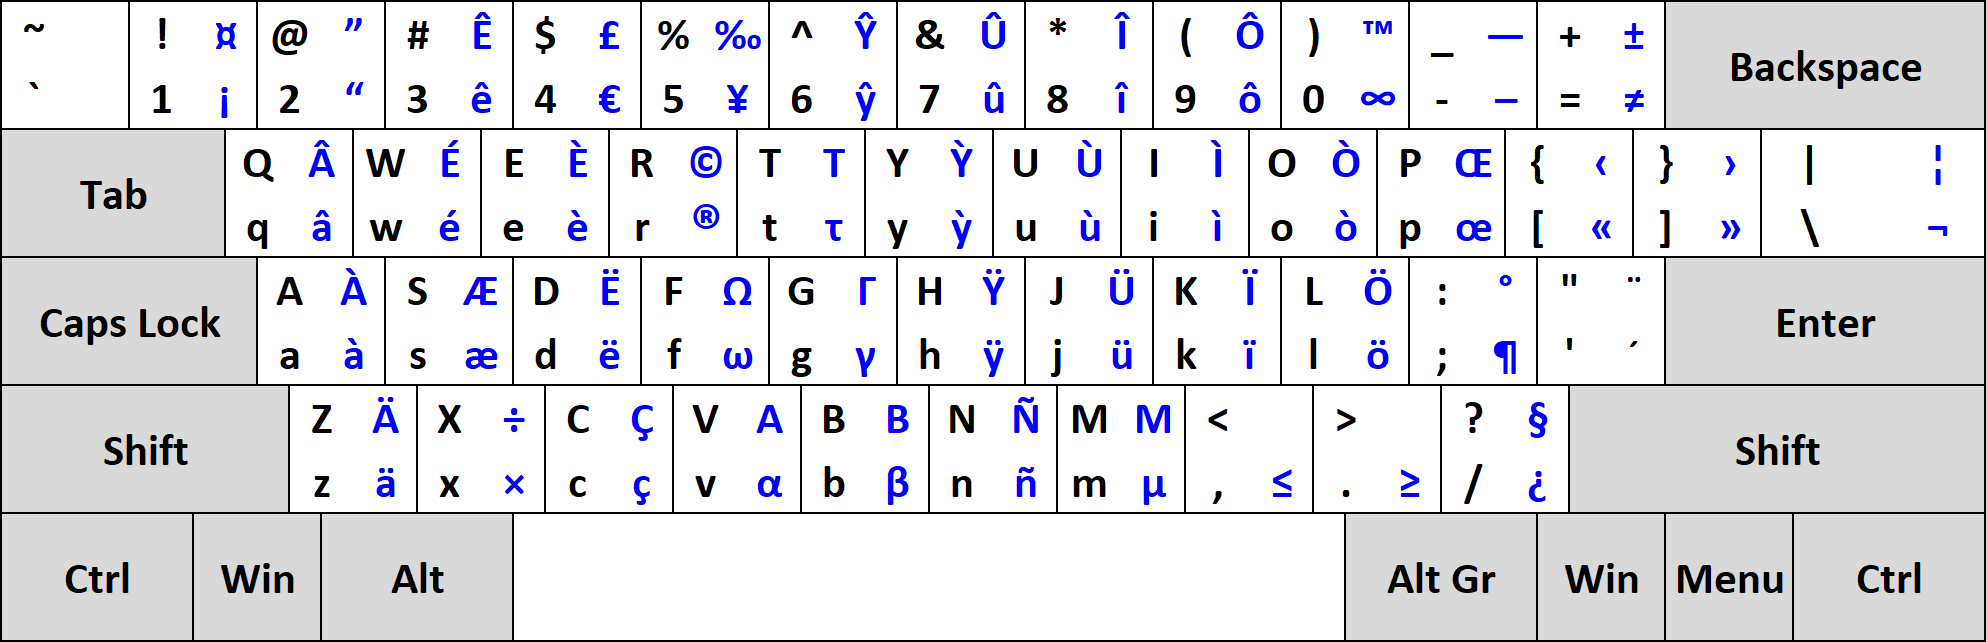
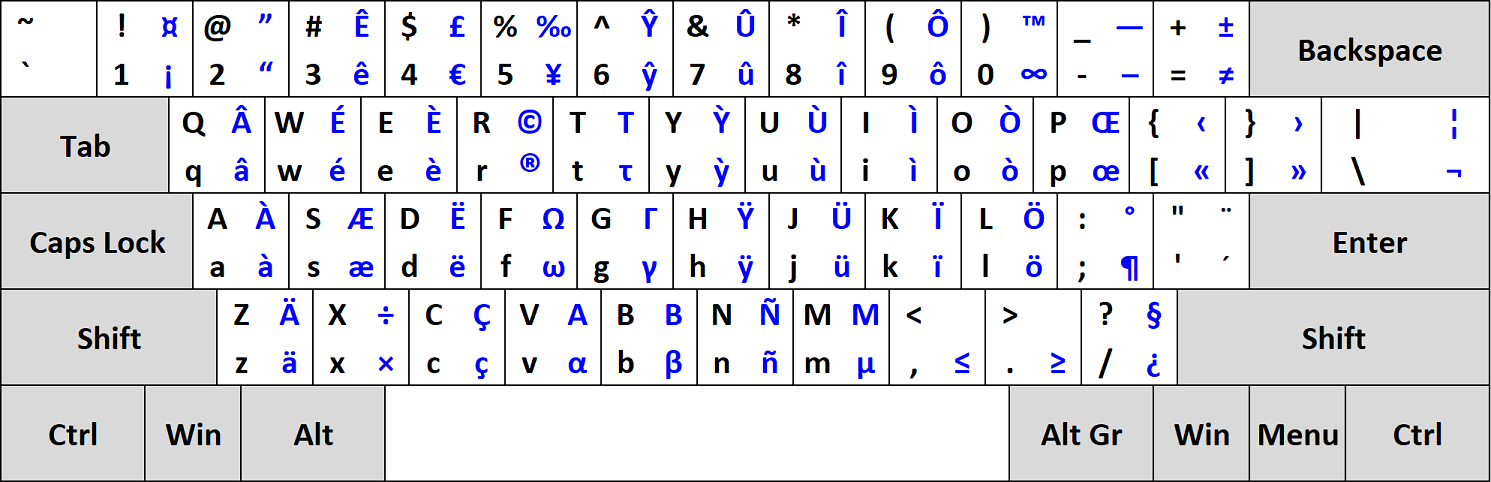
Update README.md

diff --git a/README.md b/README.md
@@ -10,18 +10,17 @@ Grave accent: AltGr + corresponding letter (works for all vowels).<br>
 Cedilla: AltGr + corresponding letter (works for the letter c -> ç).<br>
 Circumflex: AltGr + key above the corresponding letter (works for all vowels).<br>
 Diaeresis: AltGr + key below the corresponding letter (works for all vowels).<br>
-Ligature: AltGr + key right the corresponding letter (works for letters o and a -> œ and æ).<br><br>
+Ligature: AltGr + key right the corresponding letter (works for letters o and a -> œ and æ).
 
 <h1>Layout</h1>
 
-<img src="qwerty-fr.png" width="60%" height="60%" />
-<br><br>
+<img src="qwerty-fr.png" />
 
 <h1>How to build / install</h1>
 
 <h2>Windows</h2>
 
-Open the layout file with Microsoft Keyboard Layout Creator (MSKLC) tool, which Microsoft distributes for free.
+Open the layout file with Microsoft Keyboard Layout Creator (MSKLC) tool, which Microsoft distributes for free.<br>
 After opening the file in MSKLC, choosing "Project -> Build DLL and Setup Package" will create an installer that can be used to add this layout to Windows.
 
 <h2>macOS</h2>
